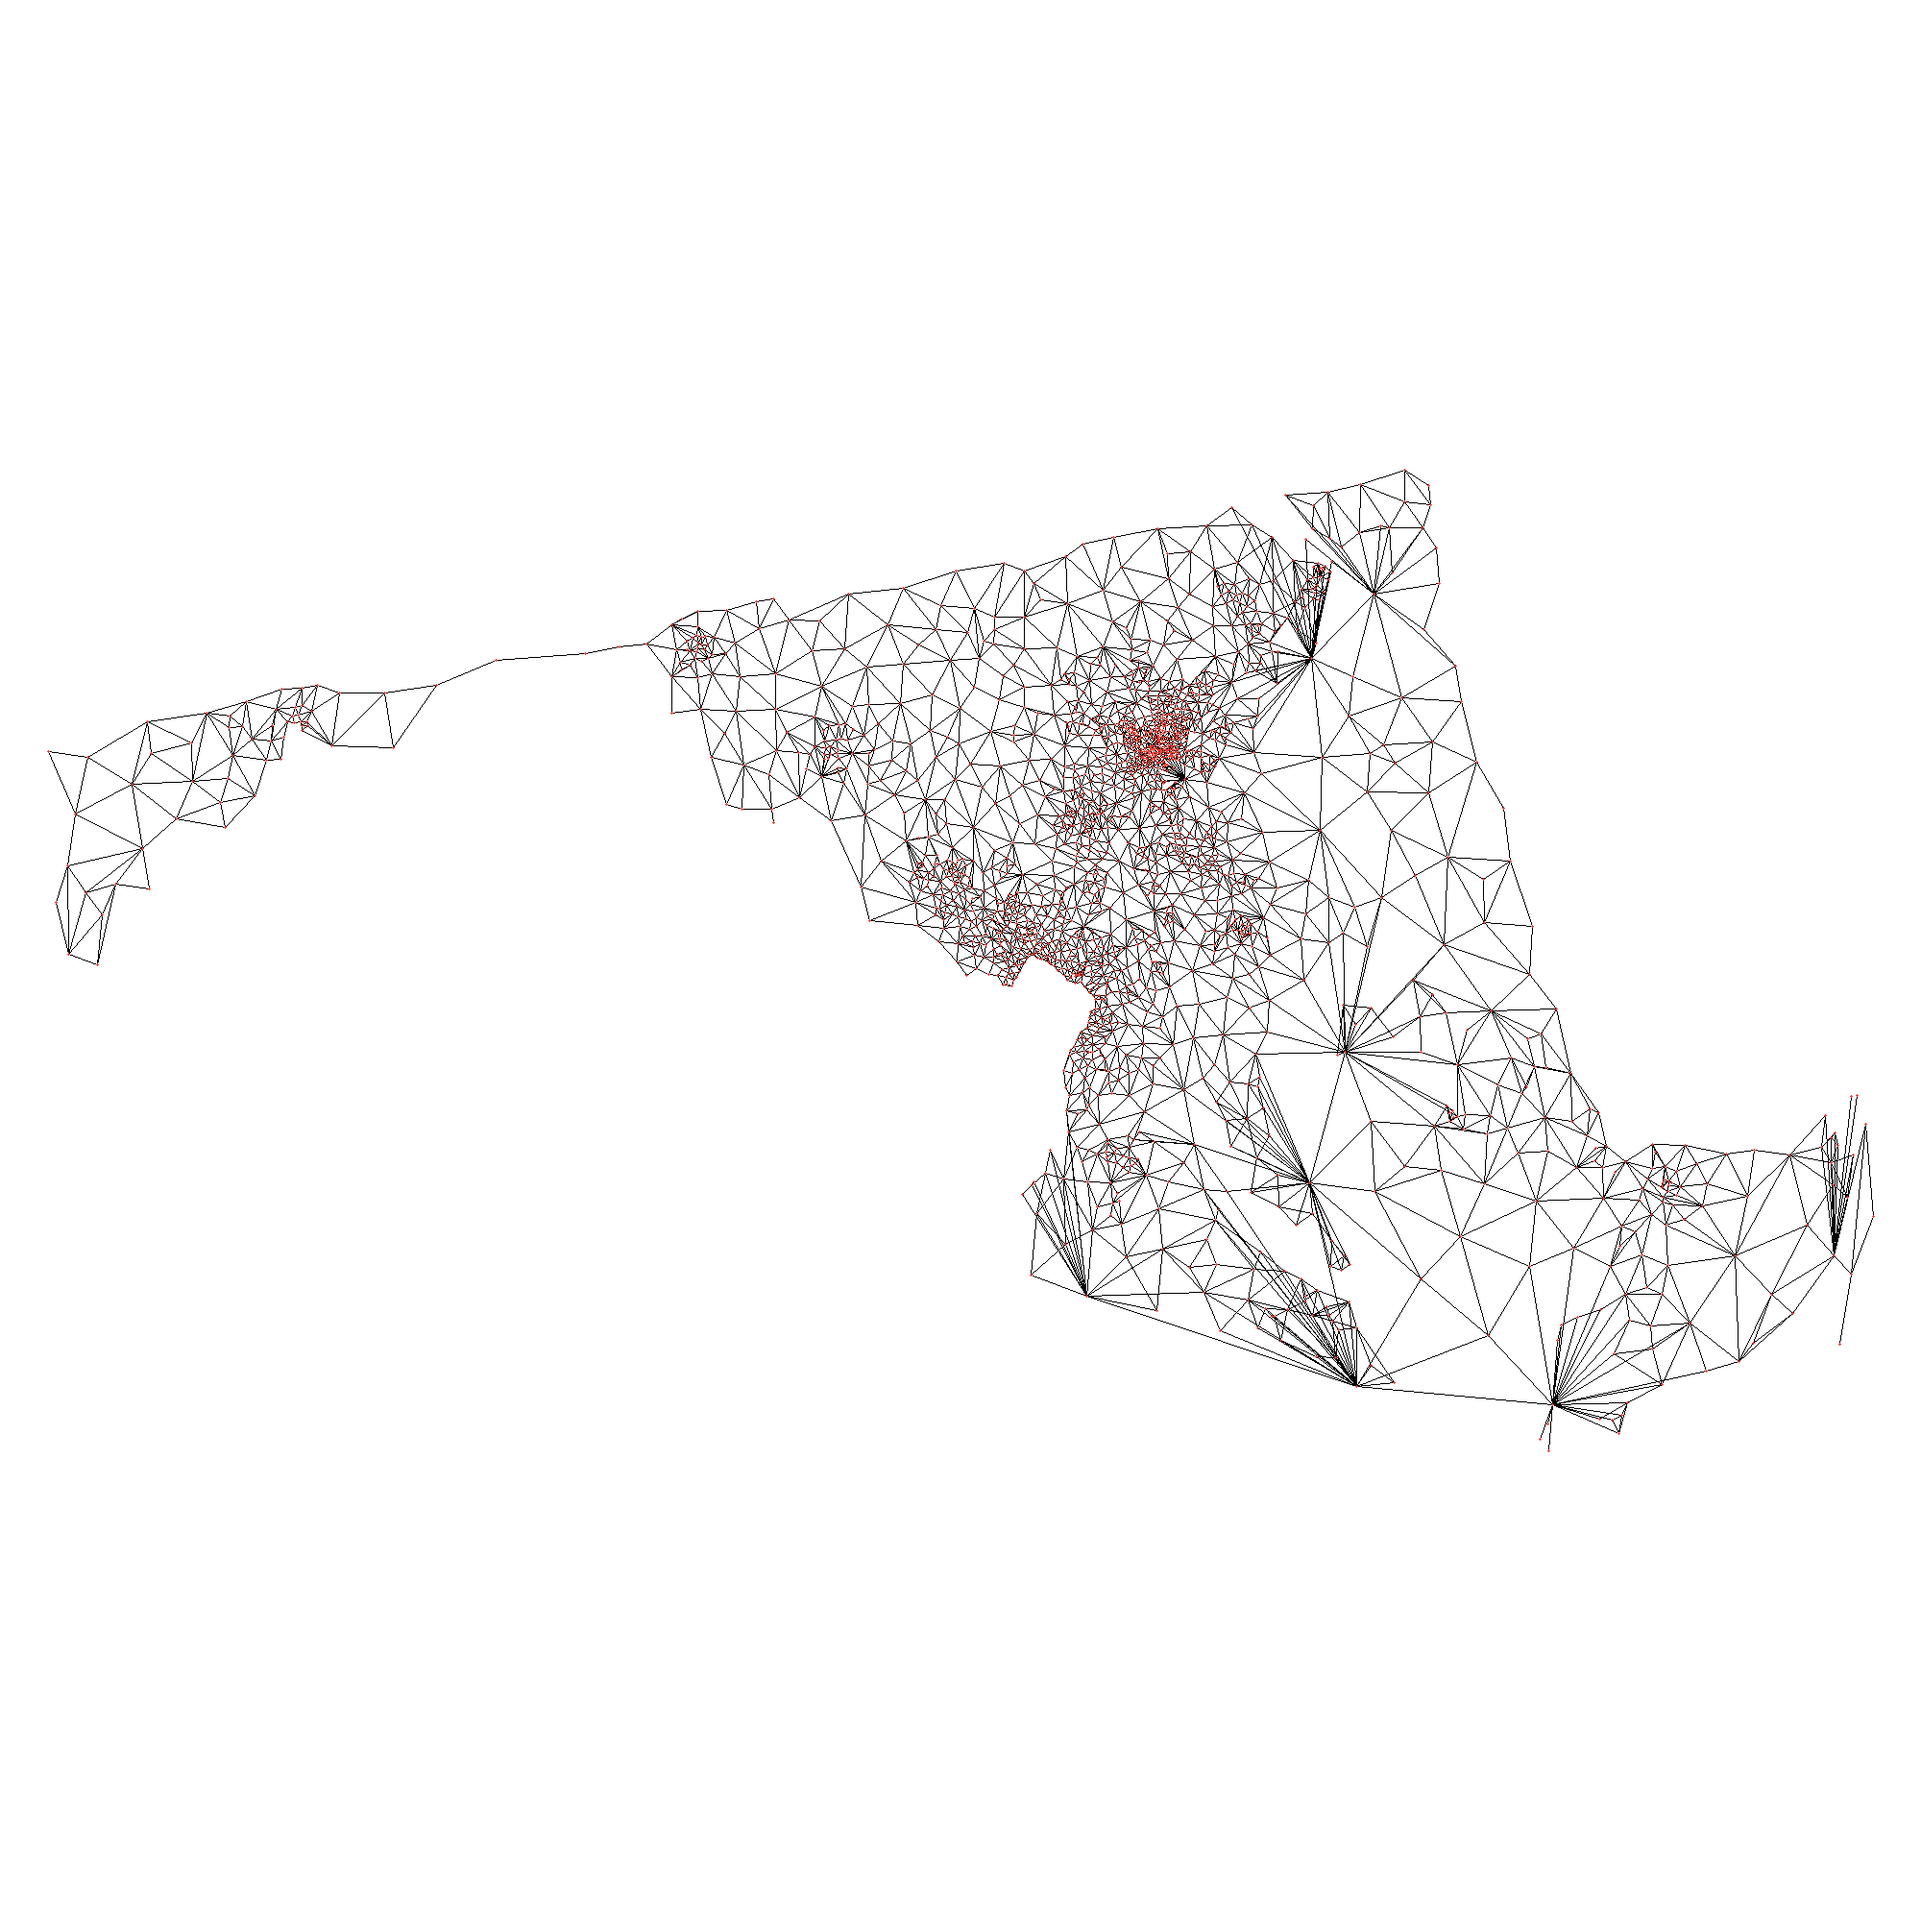
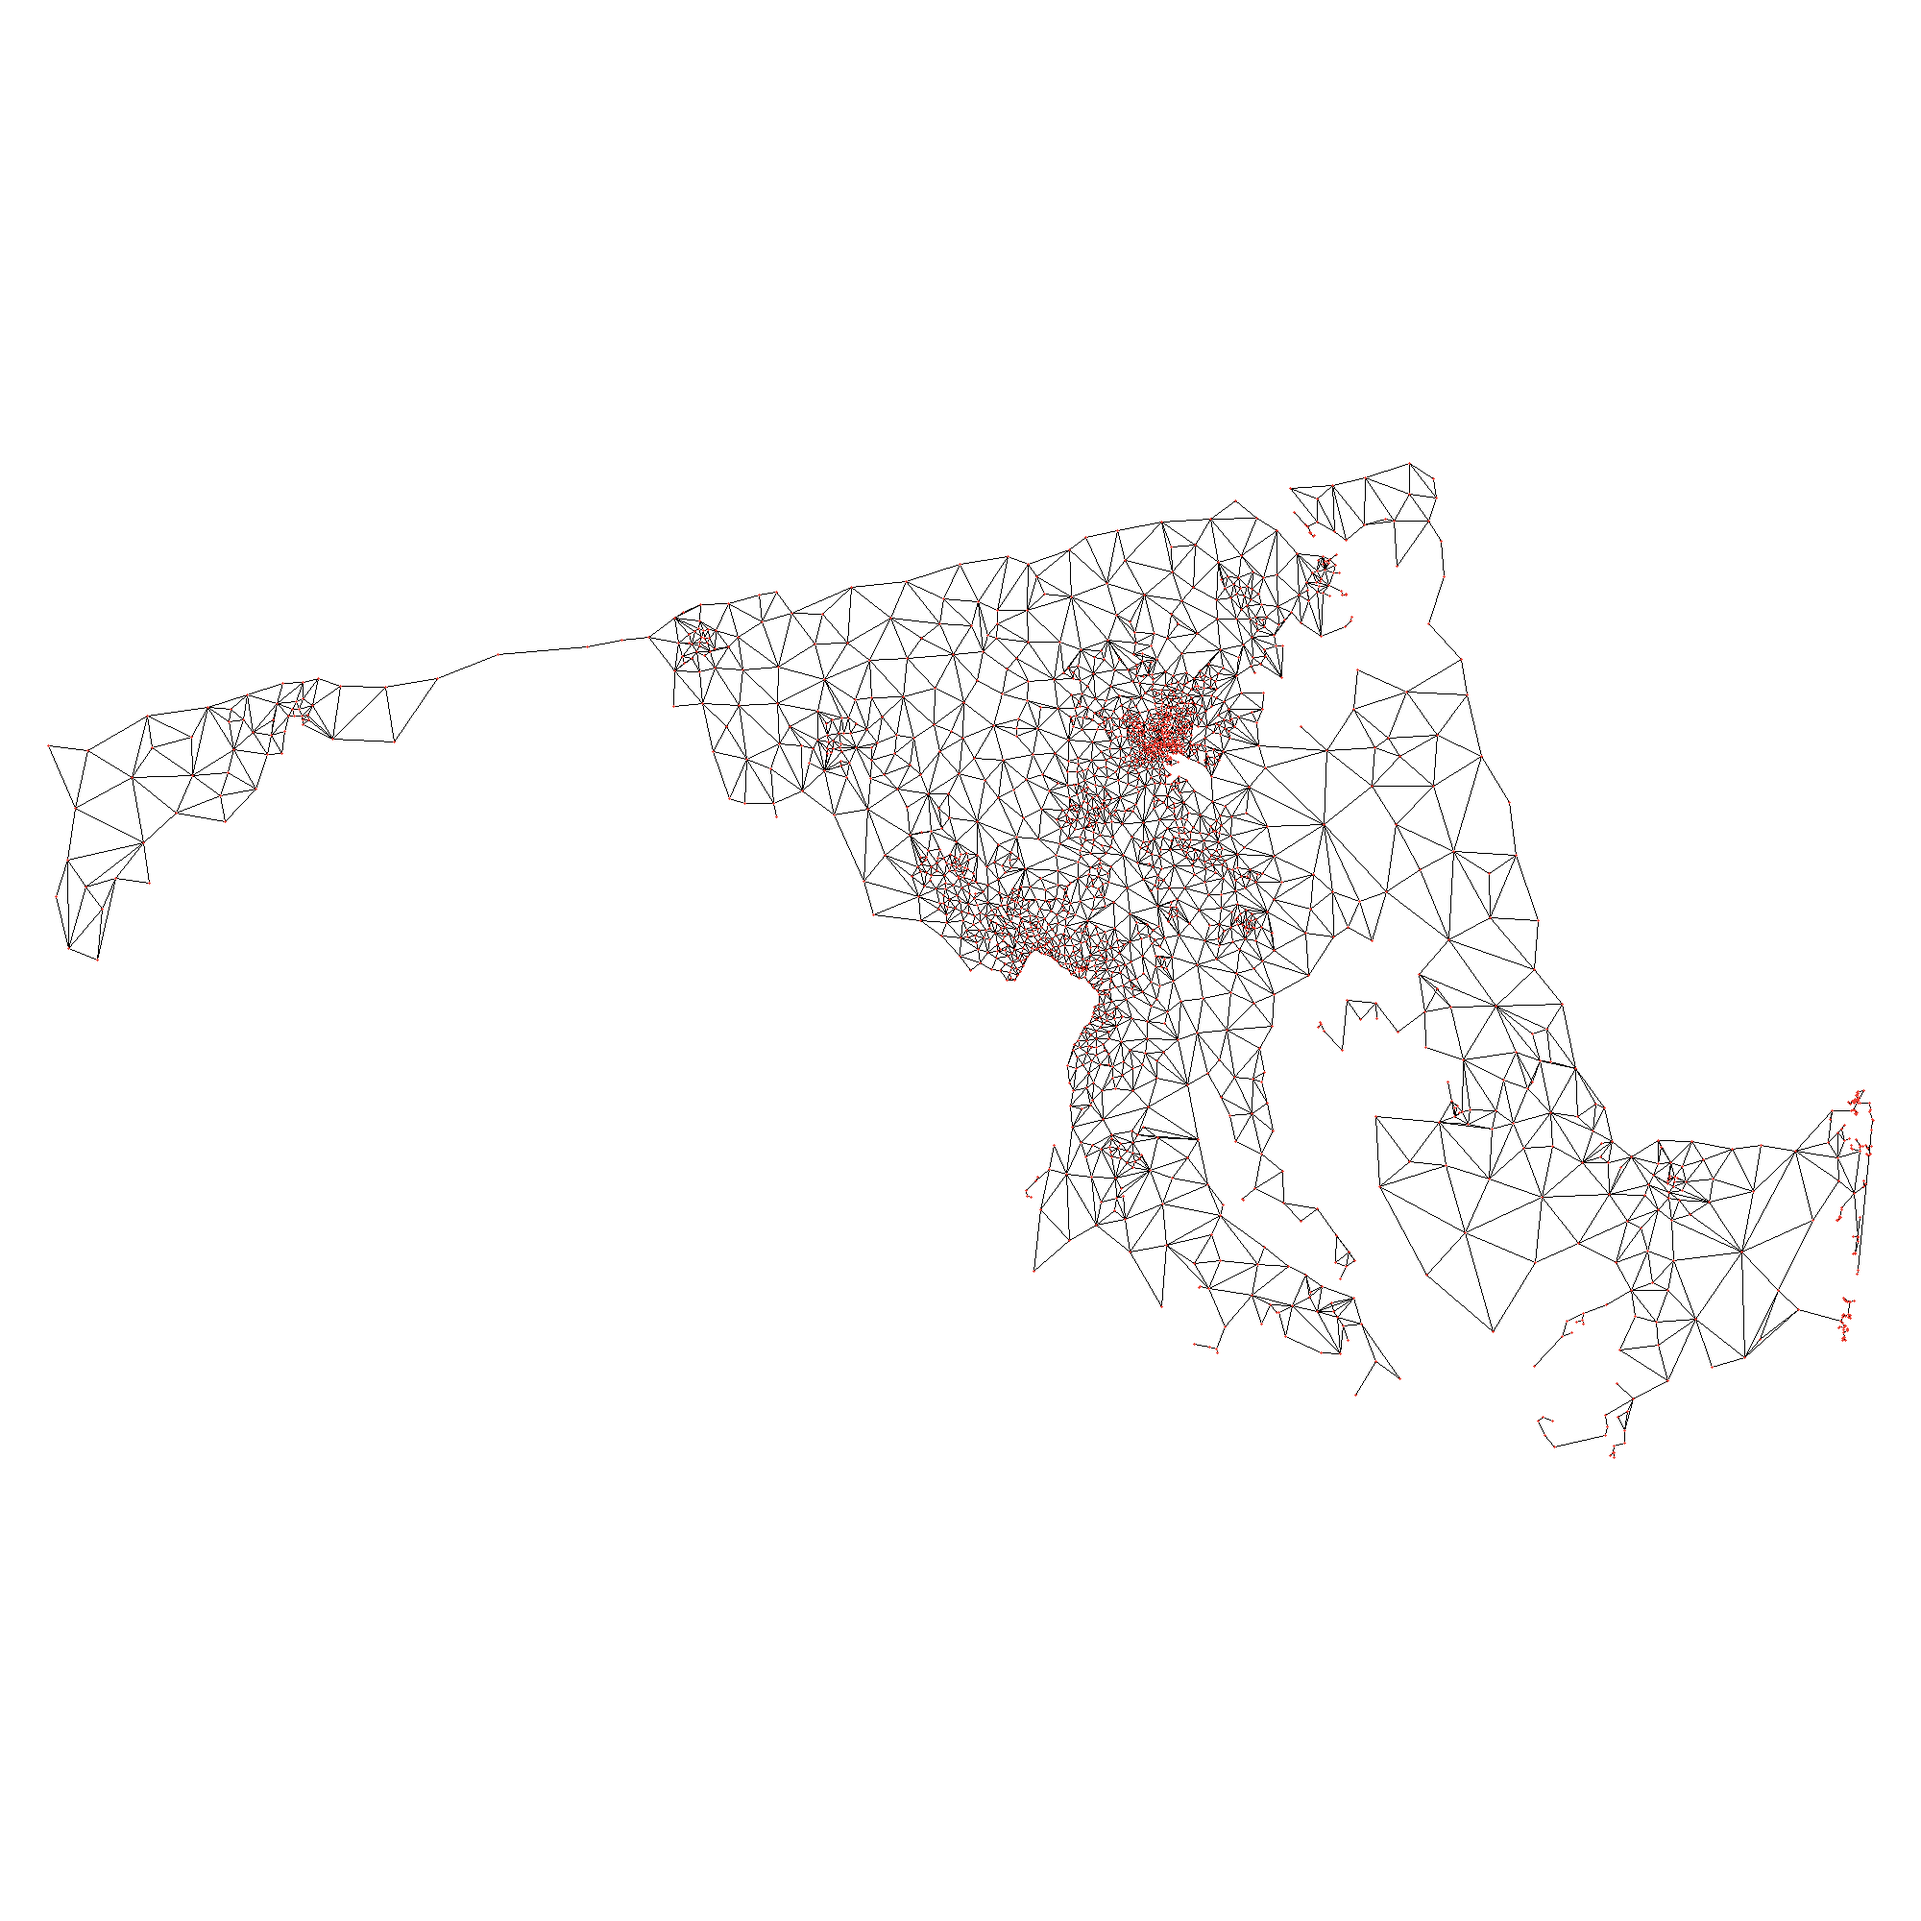
fix visualization for maryland and more complex states

Changed region(s): [[0.341, 0.248, 0.992, 0.744], [0.062, 0.341, 0.186, 0.434], [0.031, 0.434, 0.062, 0.496]]

diff --git a/rba/visualization.py b/rba/visualization.py
@@ -18,7 +18,6 @@ import numpy as np
 from . import community_generation
 from . import util
 
-
 IMAGE_DIMS = (2000, 2000)
 IMAGE_BG = "white"
 EDGE_WIDTH_FACTOR = 15
@@ -155,34 +154,57 @@ def visualize_map(graph, output_fpath, node_coords, edge_coords, node_colors=Non
     node_color_values = []  # same number of elements as node_end_indices
     additional_polygon_end_indices = []  # same deal as node_end_indices
     for u, v in graph.edges:
-        for line_string in edge_coords((u, v)):
-            all_flattened_coords.append(line_string[0])
-            all_flattened_coords.append(line_string[1])
-            edge_width_values.append(edge_widths((u, v)))
-            edge_color_values.append(edge_colors((u, v)))
+        # Just drop connections between islands and the mainland
+        try:
+            for line_string in edge_coords((u, v)):
+                all_flattened_coords.append(line_string[0])
+                all_flattened_coords.append(line_string[1])
+                edge_width_values.append(edge_widths((u, v)))
+                edge_color_values.append(edge_colors((u, v)))
+        except KeyError:
+            continue
     num_edge_line_strings = len(edge_color_values) - 1
     for u in node_list:
         u_coords = node_coords(u)
+            # print(shapely.geometry.mapping(u_coords))
+        # Could be multiline string if the coordinates are a multipolygon
         if isinstance(u_coords.boundary, shapely.geometry.MultiLineString):
             for ls in u_coords.boundary.geoms:
                 all_flattened_coords += ls.coords
+            node_end_indices.append(len(all_flattened_coords) - 1)
+            node_color_values.append(node_colors(u))
         else:
             all_flattened_coords += list(u_coords.boundary.coords)
-        node_end_indices.append(len(all_flattened_coords) - 1)
-        node_color_values.append(node_colors(u))
+            node_end_indices.append(len(all_flattened_coords) - 1)
+            node_color_values.append(node_colors(u))
+        # if u == "2403707-001s3":
+            # print(u_coords, node_end_indices[-1], "SEEN!")
     for poly in additional_polygons:
-        all_flattened_coords += list(poly.boundary.coords)
-        additional_polygon_end_indices.append(len(all_flattened_coords) - 1)
+        if isinstance(poly, shapely.geometry.MultiPolygon):
+            for polygon in poly.geoms:
+                if isinstance(polygon.boundary, shapely.geometry.MultiLineString):
+                    for ls in polygon.boundary.geoms:
+                        all_flattened_coords += list(ls.coords)
+                        additional_polygon_end_indices.append(len(all_flattened_coords) - 1)
+                else:
+                    all_flattened_coords += list(polygon.boundary.coords)
+                    additional_polygon_end_indices.append(len(all_flattened_coords) - 1)
+        else:
+            all_flattened_coords += list(poly.boundary.coords)
+            additional_polygon_end_indices.append(len(all_flattened_coords) - 1)
     all_flattened_coords = modify_coords(all_flattened_coords, IMAGE_DIMS)
 
     # Fill in colors (in a lower layer than borders)
     for i in range(len(node_list)):
         if i == 0:
-            start_index = num_edge_line_strings
+            # Because each edge line string corresponds to two points in the all flattened coords
+            start_index = num_edge_line_strings*2 + 2
         else:
             start_index = node_end_indices[i - 1] + 1
+        if node_list[i] == "2403707-001s3":
+            print(node_color_values[i], "BEING COLORED IN?")
+            print(all_flattened_coords[start_index : node_end_indices[i] + 1])
         draw.polygon(all_flattened_coords[start_index : node_end_indices[i] + 1], fill=node_color_values[i])
-
     # Draw outlines
     for i in range(num_edge_line_strings):
         draw.line(all_flattened_coords[(i * 2) : (i * 2 + 2)], fill=edge_color_values[i], width=edge_width_values[i])
@@ -249,11 +271,22 @@ def visualize_community_generation(edge_lifetime_fpath, output_fpath, graph, num
     sys.stdout.flush()
     node_coords = {}
     for u in graph.nodes:
-        coords = graph.nodes[u]["geometry"]["coordinates"][0]
-        for i, point in enumerate(coords):
-            coords[i][0] = round(point[0], 4)
-            coords[i][1] = round(point[1], 4)
-        node_coords[u] = shapely.geometry.Polygon(coords)
+        coords = graph.nodes[u]["geometry"]["coordinates"]
+        if isinstance(coords[0][0][0], list):
+            polygons = []
+            for i, polygon in enumerate(coords):
+                for j, point in enumerate(polygon[0]):
+                    coords[i][0][j][0] = round(point[0], 4)
+                    coords[i][0][j][1] = round(point[1], 4)
+                polygons.append(shapely.geometry.Polygon(coords[i][0]))
+            node_coords[u] = shapely.geometry.MultiPolygon(polygons=polygons)
+        else:
+            for i, point in enumerate(coords[0]):
+                coords[0][i][0] = round(point[0], 4)
+                coords[0][i][1] = round(point[1], 4)
+            node_coords[u] = shapely.geometry.Polygon(coords[0])
+        if u == "2403707-001":
+            print(node_coords[u])
     print("Done!")
 
     print("Getting edge coordinates... ", end="")
@@ -266,11 +299,16 @@ def visualize_community_generation(edge_lifetime_fpath, output_fpath, graph, num
                 edge_coords[frozenset((u, v))] = [intersection.coords]
             elif isinstance(intersection, shapely.geometry.MultiLineString):
                 edge_coords[frozenset((u, v))] = [ls.coords for ls in intersection.geoms]
+            elif isinstance(intersection, shapely.geometry.collection.GeometryCollection):
+                edge_coords[frozenset((u,v))] = [ls.coords for ls in intersection.geoms if isinstance(ls, shapely.geometry.LineString)]
             else:
                 raise ValueError(f"Intersection between {u} and {v} is not a LineString or"
                                 + f" MultiLineString. It is of type {type(intersection)}")
-        else:
-            raise ValueError(f"Overlap not found between {u} and {v}")
+        # else:
+            # This is an edge between an island and another precinct, so just connect their centers
+            # print([node_coords[u].centroid.coords, node_coords[v].centroid.coords])
+            # edge_coords[frozenset((u,v))] = [node_coords[u].centroid.coords, node_coords[v].centroid.coords]
+            # raise ValueError(f"Overlap not found between {u} and {v}")
     print("Done!")
 
     try:
@@ -488,4 +526,5 @@ if __name__ == "__main__":
     #         return (255, 0, 0)
 
     # visualize_graph(graph, sys.argv[2], lambda node: shapely.geometry.shape(graph.nodes[node]['geometry']).centroid, colors=colors, show=True)
-    visualize_graph(graph, sys.argv[2], lambda node: shapely.geometry.shape(graph.nodes[node]['geometry']).centroid, show=True)
+    # visualize_graph(graph, sys.argv[2], lambda node: shapely.geometry.shape(graph.nodes[node]['geometry']).centroid, show=True)
+    visualize_graph(graph, sys.argv[2], lambda node: shapely.geometry.mapping(shapely.geometry.shape(graph.nodes[node]['geometry']).centroid)["coordinates"], show=True)

diff --git a/rba/scripts/serialize.py b/rba/scripts/serialize.py
@@ -98,8 +98,8 @@ def merge_graphs():
                 json.dump(merged_data, f)
                 # data_str = json.dumps(merged_data["nodes"][0])
                 # f.write(data_str)
-            if os.path.isfile(os.path.join(final_dir+"/"+year, file[:file.find(".")] + ".7z")):
-                os.remove(full_json_path)
+            # if os.path.isfile(os.path.join(final_dir+"/"+year, file[:file.find(".")] + ".7z")):
+                # os.remove(full_json_path)
 
 def split_multipolygons(geodata, assignment=None, block_data=None):
     """
@@ -543,8 +543,6 @@ def merge_empty(graph):
     empty_nodes = []
     for node in graph.nodes(data=True):
         node_data = node[1]
-        if node[0] == "2401507-001s3":
-            print("DETECTED", node_data["total_pop"])
         # CUTOFF TO MERGE: 20 PEOPLE
         if node_data["total_pop"] < 20:
             empty_nodes.append(node[0])
@@ -565,6 +563,16 @@ def merge_empty(graph):
         geometry.append(shapely.geometry.shape(graph.nodes[substituted_node]["geometry"]))
         geometry_union = shapely.ops.unary_union(geometry)
         for node in group:
+            # if isinstance(geometry_union, shapely.geometry.MultiPolygon):
+            if substituted_node == "2403914-001" and node == "2403910-002s4":
+                # if isinstance(shapely.geometry.shape(graph.nodes[substituted_node]["geometry"]), shapely.geometry.MultiPolygon):
+                # if substituted_node == "2402502-014" and group[0] == "2402502-005s2":
+                    # print(shapely.geometry.mapping(shapely.geometry.shape(graph.nodes[substituted_node]["geometry"])))
+                    # print([graph.nodes[node]["geometry"] for node in group])
+                print(graph.nodes[substituted_node]["geometry"])
+                print(geometry)
+                print(group, substituted_node)
+                print(list(graph.neighbors("2403910-002s4")))
             if node in fake_nodes:
                 continue
             graph.nodes[substituted_node]["total_pop"] += graph.nodes[node]["total_pop"]
@@ -876,17 +884,8 @@ def serialize(year, state, checkpoint="beginning"):
             geodata["total_votes"] = geodata["total_dem"] + geodata["total_rep"] + geodata["G20PRELJOR"] + geodata["G20PREGHAW"] + geodata["G20PREAFUE"]
         # Prorate election data from precinct to block level    
         weights = block_geodata.total_vap / assignment.map(geodata.total_vap)
-        print(assignment.index, assignment.dtype)
-        print(geodata.index, geodata.dtypes)
-        print(block_geodata.total_vap)
-        print(geodata.total_vap)
-        print(geodata.index.dtype)
-        print(assignment)
-        print(assignment.map(geodata.total_vap))
-        print(weights, "weights")
         prorated = maup.prorate(assignment, geodata[["total_votes", "total_dem", "total_rep"]], weights)
         block_geodata[["total_votes", "total_dem", "total_rep"]] = prorated.round(3)
-        print(block_geodata[block_geodata["total_votes"] > 0], "places where it is greater than zero votes")
         block_geodata[["total_votes", "total_dem", "total_rep"]] = block_geodata[["total_votes","total_dem", "total_rep"]].fillna(0)
         
         geodata.to_file("testing_geodata.json", driver="GeoJSON")
@@ -952,8 +951,9 @@ def serialize(year, state, checkpoint="beginning"):
     else:
         geodata_graph = nx.read_gpickle("test_geodata_graph.gpickle")    
         block_geodata_graph = nx.read_gpickle("test_block_geodata_graph.gpickle")    
-        print(len(geodata_graph))
-        print(len(block_geodata_graph))
+        print(f"Number of nodes in graph: {len(geodata_graph)}")
+        print(f"Number of nodes in block graph: {len(block_geodata_graph)}")
+
     # Drop water-only precincts and blocks NOTE: not necessary 
     # if year == 2010:
     #     geodata.drop(geodata[geodata["ALAND10"] == 0].index, inplace=True)
@@ -987,7 +987,7 @@ def serialize(year, state, checkpoint="beginning"):
 
     with open(final_dir + f"/{year}/{state}_geodata.json", "w") as f:
         json.dump(data, f)
-    with open(final_dir + f"/{year}/{state}_block_geodata.json", "w") as f:
+    with open(final_dir + f"/{year}/{state}_block_geodata_help.json", "w") as f:
         json.dump(block_data, f)
 
     # Create a version with merged precincts/blocks under a certain threshold
@@ -1036,11 +1036,12 @@ def serialize_all():
                         break
                 if not exists:
                     serialize(int(year), state, checkpoint="beginning")
+    print("All done!")
 
 if __name__ == "__main__":
-    # compress_all_data("final")
+    compress_all_data("final")
     # merge_graphs()
-    serialize_all()
-    # serialize(2010, "massachusetts", checkpoint="beginning")
+    # serialize_all()
+    # serialize(2010, "maryland", checkpoint="beginning")
     # serialize(2010, "north_dakota", checkpoint="geometry")
-    # serialize(2010, "kansas", checkpoint="graph")       
+    # serialize(2020, "missouri", checkpoint="graph")       
